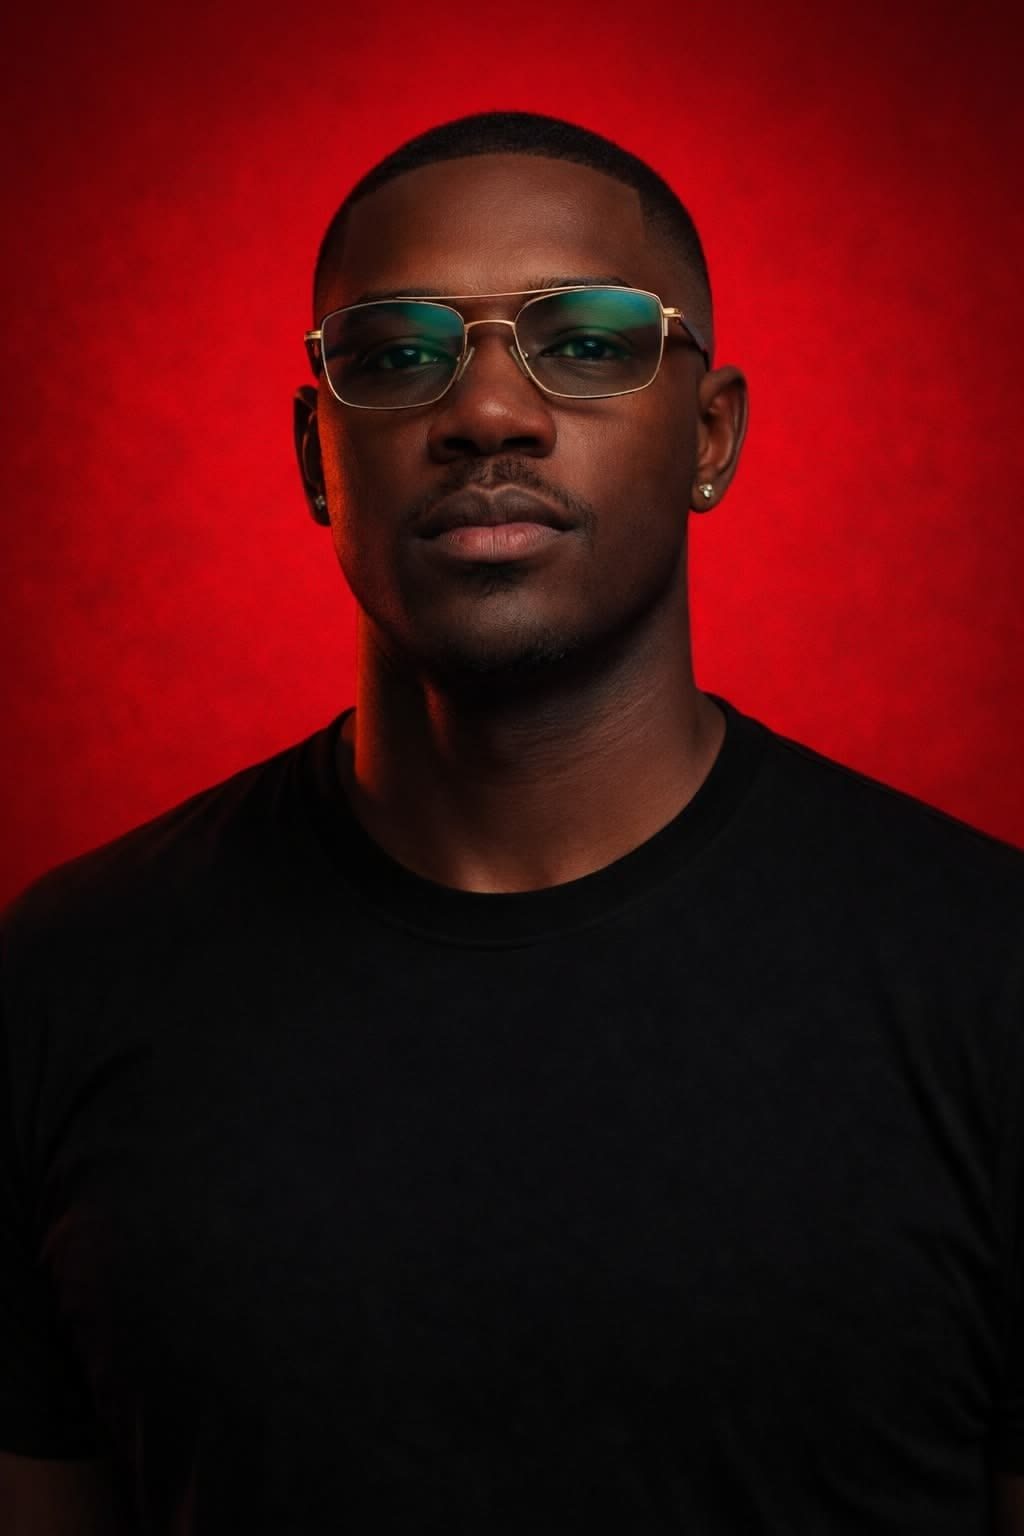
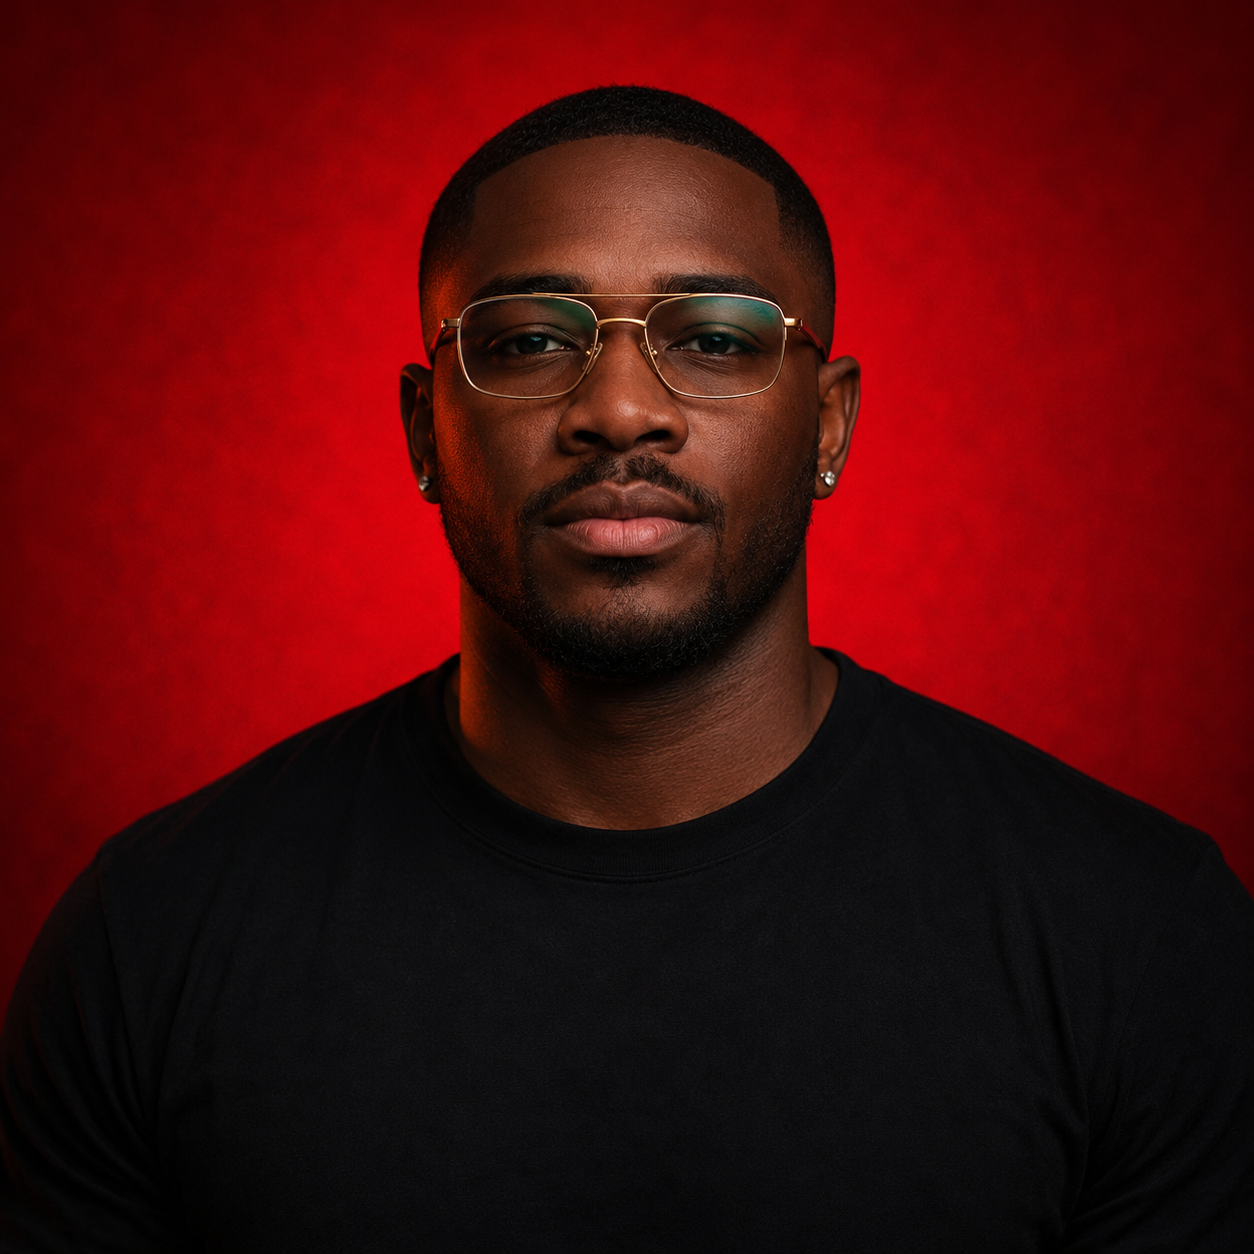
commit all changes

diff --git a/app/auth/signup/page.js b/app/auth/signup/page.js
@@ -33,7 +33,6 @@ import {
   Home,
   AlertTriangle,
   Info,
-  ImageIcon,
   CheckCircle,
   XCircle
 } from 'lucide-react';
@@ -239,12 +238,12 @@ const SearchableSelect = ({
 export default function SignupPage() {
   const router = useRouter();
   
-  const [showRoleModal, setShowRoleModal] = useState(true);
-  const [selectedRole, setSelectedRole] = useState(null);
+  const [selectedRole, setSelectedRole] = useState('candidate');
   const [switchingRole, setSwitchingRole] = useState(false);
   
   // Fan registration disabled state
   const [showFanDisabledModal, setShowFanDisabledModal] = useState(false);
+  const [showWhatsappNotice, setShowWhatsappNotice] = useState(false);
   
   // Avatar guidance modal
   const [showAvatarGuidance, setShowAvatarGuidance] = useState(false);
@@ -322,7 +321,6 @@ export default function SignupPage() {
         setFormData(prev => ({ ...prev, ...parsed }));
         if (parsed.selectedRole) {
           setSelectedRole(parsed.selectedRole);
-          setShowRoleModal(false);
         }
         if (parsed.avatarPreview) {
           setAvatarPreview(parsed.avatarPreview);
@@ -517,27 +515,6 @@ export default function SignupPage() {
     };
   }, [formData.username, supabase]);
 
-  // Handle role selection
-  const handleRoleSelect = (role) => {
-    // If fan is selected, show disabled modal
-    if (role === 'fan') {
-      setShowFanDisabledModal(true);
-      return;
-    }
-    
-    setSelectedRole(role);
-    setShowRoleModal(false);
-    setFormData(prev => ({
-      ...prev,
-      username: role === 'candidate' ? prev.username : '',
-      phone: role === 'candidate' ? prev.phone : '',
-      country: role === 'candidate' ? prev.country : '',
-      state: role === 'candidate' ? prev.state : '',
-      city: role === 'candidate' ? prev.city : '',
-      lga: role === 'candidate' ? prev.lga : '',
-    }));
-  };
-
   // Handle fan disabled modal actions
   const handleFanModalAction = (action) => {
     setShowFanDisabledModal(false);
@@ -546,7 +523,6 @@ export default function SignupPage() {
     } else if (action === 'contest') {
       // Switch to candidate registration
       setSelectedRole('candidate');
-      setShowRoleModal(false);
       setFormData(prev => ({
         ...prev,
         username: prev.username || '',
@@ -611,7 +587,7 @@ export default function SignupPage() {
     
     if (selectedRole === 'candidate') {
       if (!formData.phone) {
-        newErrors.phone = 'WhatsApp number is required';
+        newErrors.phone = 'Whatsapp number is required';
       } else if (!/^[\+]?[0-9\s\-\(\)]{10,}$/.test(formData.phone)) {
         newErrors.phone = 'Please enter a valid phone number';
       }
@@ -1052,8 +1028,7 @@ export default function SignupPage() {
             </motion.div>
             
             {/* Role Switch Buttons */}
-            {!showRoleModal && (
-              <div className="flex items-center gap-1 bg-white/5 rounded-lg p-1 border border-white/10 flex-shrink-0">
+            <div className="flex items-center gap-1 bg-white/5 rounded-lg p-1 border border-white/10 flex-shrink-0">
                 <button
                   type="button"
                   onClick={() => handleRoleSwitch('candidate')}
@@ -1080,8 +1055,7 @@ export default function SignupPage() {
                   <span>Fan</span>
                   <span className="text-[6px] bg-yellow-400/20 text-yellow-400 px-1 rounded">Soon</span>
                 </button>
-              </div>
-            )}
+            </div>
           </div>
 
           {/* Form Content */}
@@ -1093,11 +1067,11 @@ export default function SignupPage() {
               className="text-center"
             >
               <h2 className="text-lg md:text-xl font-bold text-yellow-400">
-                {selectedRole === 'candidate' ? 'Become a Contestant' : 'Join as a Fan'}
+                {selectedRole === 'candidate' ? 'Create Your Profile' : 'Join as a Fan'}
               </h2>
               <p className="text-[10px] md:text-xs text-white/50">
                 {selectedRole === 'candidate' 
-                  ? 'Create your contestant profile to participate in WhoWin' 
+                  ? 'Carefully fill the form below to create your profile page.'
                   : 'Support your favorite contestants'}
               </p>
             </motion.div>
@@ -1298,22 +1272,41 @@ export default function SignupPage() {
               >
                 <label htmlFor="phone" className="flex items-center gap-1 text-[10px] md:text-xs font-medium text-white/60 mb-0.5 ml-1">
                   <Phone className="w-2.5 h-2.5 md:w-3 md:h-3 flex-shrink-0" /> 
-                  <span>{selectedRole === 'candidate' ? 'WhatsApp Number' : 'Phone (Optional)'}</span>
+                  <span>{selectedRole === 'candidate' ? 'Whatsapp Number' : 'Phone (Optional)'}</span>
                   {selectedRole === 'candidate' && <span className="text-yellow-400">*</span>}
                 </label>
-                <input
-                  type="tel"
-                  id="phone"
-                  name="phone"
-                  placeholder={selectedRole === 'candidate' ? '+234 800 000 0000' : '+123 456 7890 (optional)'}
-                  className={`w-full px-2.5 py-1.5 md:px-3 md:py-2 bg-white/5 border rounded-lg md:rounded-xl text-xs md:text-sm text-white focus:ring-1 focus:ring-yellow-400 focus:border-yellow-400 transition-all outline-none placeholder:text-white/30 ${
-                    errors.phone ? 'border-red-400 bg-red-500/10' : 'border-white/20'
-                  }`}
-                  value={formData.phone}
-                  onChange={handleChange}
-                  required={selectedRole === 'candidate'}
-                  disabled={cooldownSeconds > 0}
-                />
+                <div className="relative">
+                  <input
+                    type="tel"
+                    id="phone"
+                    name="phone"
+                    placeholder={selectedRole === 'candidate' ? '+234 800 000 0000' : '+123 456 7890 (optional)'}
+                    className={`w-full px-2.5 py-1.5 md:px-3 md:py-2 bg-white/5 border rounded-lg md:rounded-xl text-xs md:text-sm text-white focus:ring-1 focus:ring-yellow-400 focus:border-yellow-400 transition-all outline-none placeholder:text-white/30 ${
+                      errors.phone ? 'border-red-400 bg-red-500/10' : 'border-white/20'
+                    }`}
+                    value={formData.phone}
+                    onChange={handleChange}
+                    onFocus={() => setShowWhatsappNotice(true)}
+                    onClick={() => setShowWhatsappNotice(true)}
+                    required={selectedRole === 'candidate'}
+                    disabled={cooldownSeconds > 0}
+                  />
+                  <AnimatePresence>
+                    {showWhatsappNotice && selectedRole === 'candidate' && (
+                      <motion.div
+                        initial={{ opacity: 0, y: -4 }}
+                        animate={{ opacity: 1, y: 0 }}
+                        exit={{ opacity: 0, y: -4 }}
+                        className="absolute z-20 left-0 right-0 top-full mt-1 rounded-lg border border-yellow-400/30 bg-gray-900/95 px-3 py-2 text-[10px] text-yellow-100 shadow-lg"
+                      >
+                        <span className="flex items-start gap-1.5">
+                          <AlertTriangle className="mt-0.5 h-3 w-3 flex-shrink-0 text-yellow-400" />
+                          <span>This must be an active Whatsapp number. Otherwise, you may be disqualified.</span>
+                        </span>
+                      </motion.div>
+                    )}
+                  </AnimatePresence>
+                </div>
                 {errors.phone && (
                   <p className="mt-0.5 text-[8px] md:text-[10px] text-red-400 flex items-center gap-1">
                     <AlertCircle className="w-2.5 h-2.5 flex-shrink-0" />
@@ -1824,81 +1817,6 @@ export default function SignupPage() {
         </motion.div>
       </motion.div>
 
-      {/* Role Selection Modal */}
-      <AnimatePresence>
-        {showRoleModal && (
-          <motion.div
-            initial={{ opacity: 0 }}
-            animate={{ opacity: 1 }}
-            exit={{ opacity: 0 }}
-            className="fixed inset-0 z-[100] flex items-center justify-center p-4 bg-black/70 backdrop-blur-md"
-          >
-            <motion.div
-              initial={{ scale: 0.9, opacity: 0, y: 20 }}
-              animate={{ scale: 1, opacity: 1, y: 0 }}
-              exit={{ scale: 0.9, opacity: 0, y: -20 }}
-              transition={{ type: "spring", damping: 25, stiffness: 300 }}
-              className="bg-gradient-to-br from-gray-900 to-black border border-yellow-400/30 rounded-2xl p-8 max-w-md w-full shadow-2xl shadow-yellow-400/10 text-center"
-            >
-              <div className="mb-6">
-                <div className="relative w-20 h-20 mx-auto mb-4">
-                  <Image
-                    src="/logo.png"
-                    alt="WhoWin Logo"
-                    fill
-                    className="object-contain"
-                  />
-                </div>
-                <h2 className="text-2xl font-bold text-white mb-2">
-                  Welcome to <span className="text-yellow-400">WhoWin</span>!
-                </h2>
-                <p className="text-white/60 text-sm">How would you like to join?</p>
-              </div>
-              
-              <div className="space-y-3">
-                <motion.button
-                  whileHover={{ scale: 1.02 }}
-                  whileTap={{ scale: 0.98 }}
-                  onClick={() => handleRoleSelect('candidate')}
-                  className="w-full p-4 rounded-xl bg-gradient-to-r from-yellow-400 to-yellow-500 hover:from-green-500 hover:to-emerald-500 hover:text-white text-black font-semibold flex items-center gap-3 transition-all hover:shadow-lg hover:shadow-green-500/30"
-                >
-                  <Crown className="w-5 h-5 flex-shrink-0" />
-                  <div className="text-left">
-                    <div className="text-sm">Sign up as a</div>
-                    <div className="text-lg font-bold">Contestant</div>
-                  </div>
-                  <div className="ml-auto text-xs opacity-70 flex-shrink-0">Competitive</div>
-                </motion.button>
-
-                <motion.button
-                  whileHover={{ scale: 1.02 }}
-                  whileTap={{ scale: 0.98 }}
-                  onClick={() => handleRoleSelect('fan')}
-                  className="w-full p-4 rounded-xl bg-white/10 border border-white/20 hover:bg-white/20 text-white font-semibold flex items-center gap-3 transition-all relative"
-                >
-                  <Users className="w-5 h-5 flex-shrink-0" />
-                  <div className="text-left">
-                    <div className="text-sm">Sign up as a</div>
-                    <div className="text-lg font-bold">Fan</div>
-                  </div>
-                  <div className="ml-auto text-xs opacity-70 flex-shrink-0">Support</div>
-                  <span className="absolute -top-2 -right-2 bg-yellow-400 text-black text-[8px] px-2 py-0.5 rounded-full font-bold">
-                    Soon
-                  </span>
-                </motion.button>
-              </div>
-
-              <p className="text-white/30 text-xs mt-4">
-                Already have an account?{' '}
-                <Link href="/auth/login" className="text-yellow-400 hover:text-green-400 transition-colors hover:underline">
-                  Sign in
-                </Link>
-              </p>
-            </motion.div>
-          </motion.div>
-        )}
-      </AnimatePresence>
-
       {/* Fan Disabled Modal */}
       <AnimatePresence>
         {showFanDisabledModal && (
@@ -1976,24 +1894,21 @@ export default function SignupPage() {
               animate={{ scale: 1, opacity: 1, y: 0 }}
               exit={{ scale: 0.9, opacity: 0, y: -20 }}
               transition={{ type: "spring", damping: 25, stiffness: 300 }}
-              className="bg-gradient-to-br from-gray-900 to-black border border-yellow-400/30 rounded-2xl p-6 md:p-8 max-w-md w-full shadow-2xl shadow-yellow-400/10"
+              className="bg-gradient-to-br from-gray-900 to-black border border-yellow-400/30 rounded-2xl p-5 md:p-6 max-w-sm max-h-[90vh] w-full overflow-y-auto shadow-2xl shadow-yellow-400/10"
               onClick={(e) => e.stopPropagation()}
             >
-              <div className="text-center mb-6">
-                <div className="w-16 h-16 bg-yellow-400/20 rounded-full flex items-center justify-center mx-auto mb-4">
-                  <ImageIcon className="w-8 h-8 text-yellow-400" />
-                </div>
-                <h3 className="text-xl font-bold text-white mb-2">
+              <div className="text-center mb-4">
+                <h3 className="text-lg font-bold text-white mb-1.5">
                   Profile Picture Tips
                 </h3>
-                <p className="text-white/60 text-sm">
+                <p className="text-white/60 text-xs">
                   Make a great first impression! Here are some examples of good profile pictures.
                 </p>
               </div>
 
               {/* Example Images Carousel */}
-              <div className="relative mb-6">
-                <div className="relative w-48 h-48 mx-auto rounded-full overflow-hidden border-2 border-yellow-400/30 shadow-lg shadow-yellow-400/20">
+              <div className="relative mb-4">
+                <div className="relative w-40 h-40 mx-auto rounded-full overflow-hidden border-2 border-yellow-400/30 shadow-lg shadow-yellow-400/20">
                   <AnimatePresence mode="wait">
                     <motion.div
                       key={currentExampleIndex}
@@ -2037,27 +1952,27 @@ export default function SignupPage() {
               </div>
 
               {/* Tips */}
-              <div className="space-y-2 mb-6">
-                <div className="flex items-start gap-2 text-sm text-white/70">
+              <div className="space-y-1.5 mb-4">
+                <div className="flex items-start gap-2 text-xs text-white/70">
                   <CheckCircle className="w-4 h-4 text-green-400 flex-shrink-0 mt-0.5" />
                   <span>Use a clear, well-lit photo</span>
                 </div>
-                <div className="flex items-start gap-2 text-sm text-white/70">
+                <div className="flex items-start gap-2 text-xs text-white/70">
                   <CheckCircle className="w-4 h-4 text-green-400 flex-shrink-0 mt-0.5" />
                   <span>Face should be clearly visible</span>
                 </div>
-                <div className="flex items-start gap-2 text-sm text-white/70">
+                <div className="flex items-start gap-2 text-xs text-white/70">
                   <CheckCircle className="w-4 h-4 text-green-400 flex-shrink-0 mt-0.5" />
                   <span>Professional or friendly appearance</span>
                 </div>
-                <div className="flex items-start gap-2 text-sm text-white/70">
+                <div className="flex items-start gap-2 text-xs text-white/70">
                   <XCircle className="w-4 h-4 text-red-400 flex-shrink-0 mt-0.5" />
                   <span>Avoid blurry or low-quality images</span>
                 </div>
               </div>
 
               {/* Action buttons */}
-              <div className="flex flex-col gap-3">
+              <div className="flex flex-col gap-2">
                 <label className="cursor-pointer w-full">
                   <div className="w-full py-2.5 px-4 bg-gradient-to-r from-yellow-400 to-yellow-500 hover:from-green-500 hover:to-emerald-500 text-black font-semibold rounded-xl text-center transition-all hover:shadow-lg hover:shadow-yellow-500/30">
                     <input
